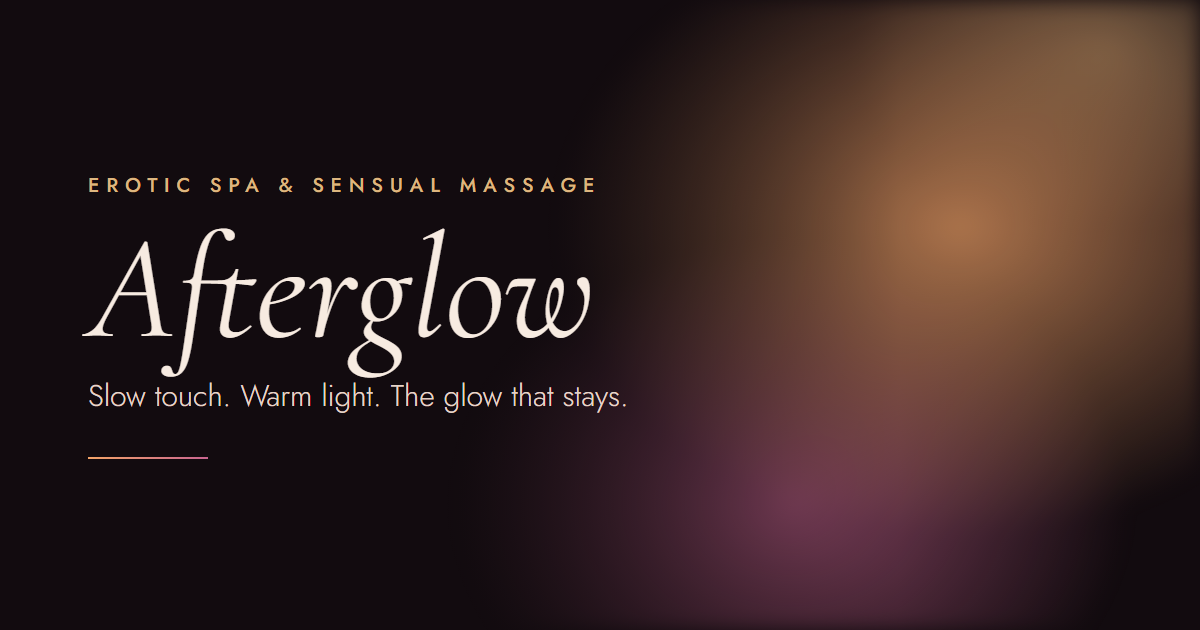
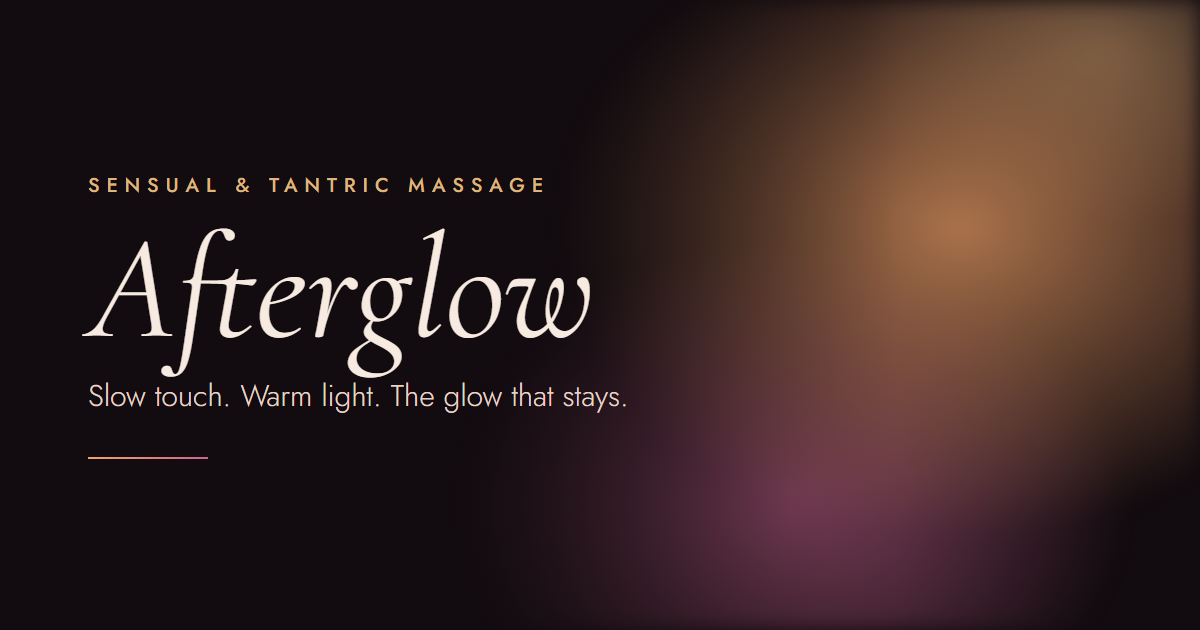
feat: localize to Brampton and reposition copy as sensual massage spa
- Set address to 33 McMurchy Ave N, Brampton, ON (CA); currency CAD, locale en_CA
- Replace "erotic spa" wording with "sensual massage spa" across titles, H1,
  meta descriptions, structured data, FAQ and social image (Criminal Code
  s. 286.4 advertising risk); soften innuendo-prone phrases
- Add audit test that fails the build if risky wording returns
- Omit empty postalCode from JSON-LD; warn when it is missing
- Sitemap: drop build-date lastmod and ignored priority
- 404 page: no canonical tag; served with 404 status
- serve.mjs: treat empty PORT as unset, handle listen errors
- Add server integration tests (malformed URLs, redirects, traversal, headers)

Changed region(s): [[0.0617, 0.2714, 0.4933, 0.3016]]

diff --git a/scripts/images/og.html b/scripts/images/og.html
@@ -24,7 +24,7 @@
 <body>
   <div class="glow"></div><div class="shade"></div>
   <div class="content">
-    <div class="eyebrow">Erotic spa &amp; sensual massage</div>
+    <div class="eyebrow">Sensual &amp; tantric massage</div>
     <h1>Afterglow</h1>
     <p>Slow touch. Warm light. The glow that stays.</p>
     <div class="line"></div>

diff --git a/README.md b/README.md
@@ -41,7 +41,8 @@ npm run images   # re-render social image + icons (needs Chrome)
 2. Claim a **Google Business Profile** if your category and jurisdiction allow it. It is the biggest driver of local "near me" traffic. Keep your name, address and phone **identical** everywhere.
 3. List the spa in reputable local and adult-friendly directories, using the same name, address and phone.
 4. Ask happy guests for genuine reviews. Never post fake ones.
-5. Note that Google Ads and Meta generally don't allow erotic-massage advertising, so organic SEO and directories are your main channels.
+5. Note that Google Ads and Meta heavily restrict sensual-massage advertising, so organic SEO and directories are your main channels.
+6. **Canada:** the Criminal Code (s. 286.4) prohibits advertising sexual services for payment, and Brampton licenses massage and body-rub businesses. The copy is written as a sensual massage spa with no explicit wording. Keep it that way, and have a lawyer review it and confirm your municipal licence before launch.
 
 ## Structure
 
